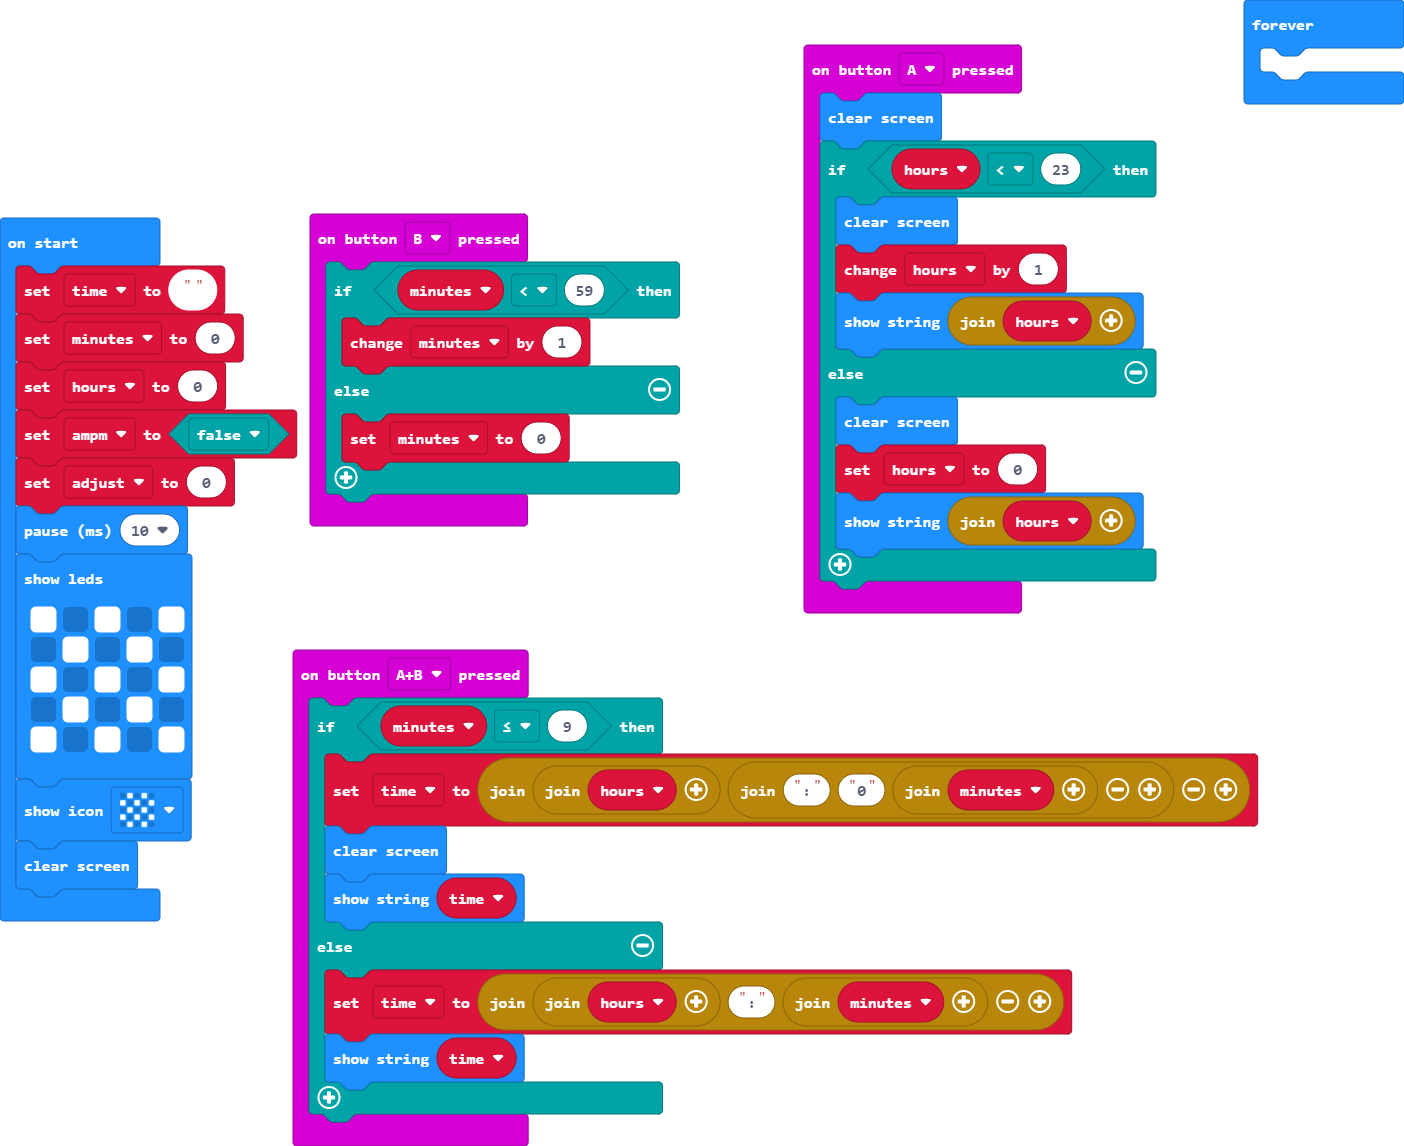
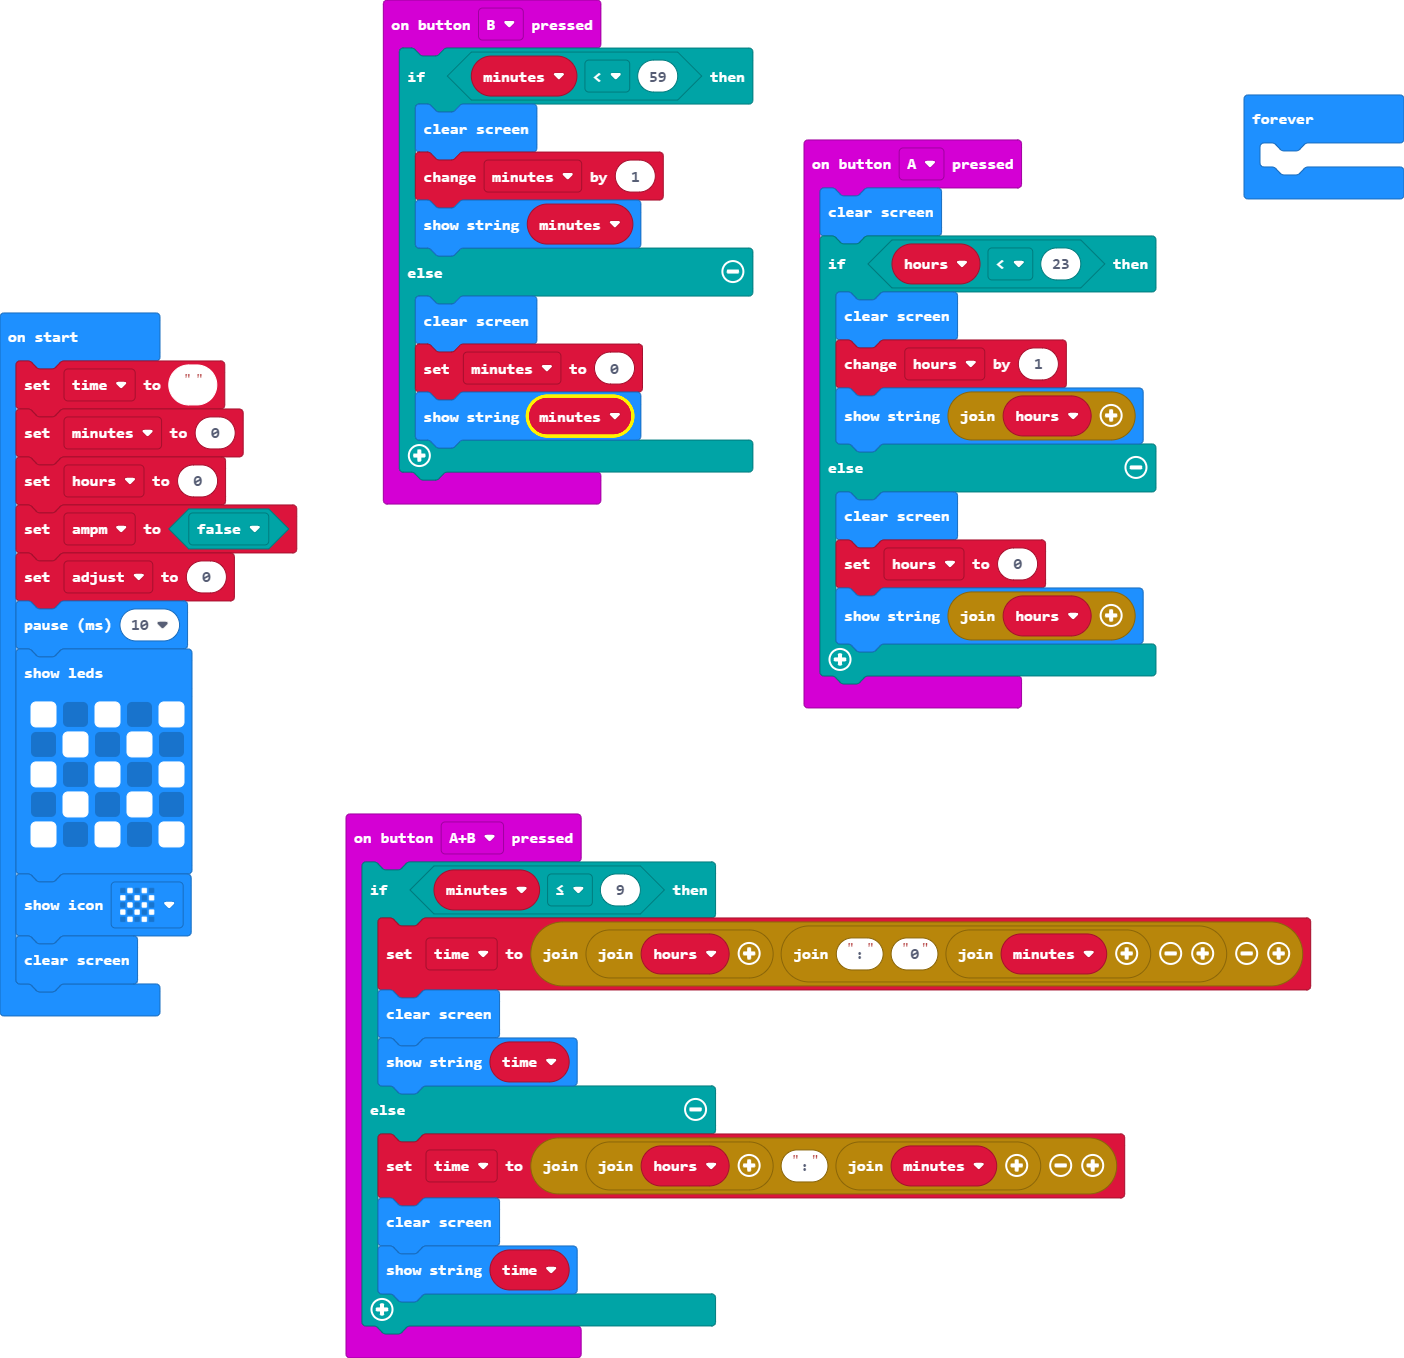
added full time set functions

diff --git a/main.ts b/main.ts
@@ -17,14 +17,19 @@ input.onButtonPressed(Button.AB, function () {
         basic.showString(time)
     } else {
         time = "" + hours + ":" + ("" + minutes)
+        basic.clearScreen()
         basic.showString(time)
     }
 })
 input.onButtonPressed(Button.B, function () {
     if (minutes < 59) {
+        basic.clearScreen()
         minutes += 1
+        basic.showString("" + (minutes))
     } else {
+        basic.clearScreen()
         minutes = 0
+        basic.showString("" + (minutes))
     }
 })
 let hours = 0
